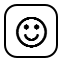
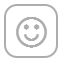
スマホ版のcalendar表示のほうも画像アイコンに変更

diff --git a/public/stylesheets/picob.css b/public/stylesheets/picob.css
@@ -12,10 +12,22 @@
 @media only screen and (max-width: 899px) {
   /* line 12, picob.scss */
   .piece, .empty-piece, .dummy-piece {
-    width: 30px;
-    height: 30px;
-    padding: 5px;
+    width: 34px;
+    height: 34px;
+    padding: 3px;
     margin: 2px 2px;
+  }
+  /* line 18, picob.scss */
+  .piece.good, .empty-piece.good, .dummy-piece.good {
+    background-color: #01BCB6;
+  }
+  /* line 21, picob.scss */
+  .piece.normal, .empty-piece.normal, .dummy-piece.normal {
+    background-color: #FFB273;
+  }
+  /* line 24, picob.scss */
+  .piece.bad, .empty-piece.bad, .dummy-piece.bad {
+    background-color: #FF7373;
   }
 }
 @media only screen and (min-width: 900px) {
@@ -28,68 +40,88 @@
   }
 }
 
-/* line 30, picob.scss */
+/* line 39, picob.scss */
 .feeling, .empty-feeling {
-  height: 64px;
-  width: 64px;
+  width: 100%;
+  position: relative;
   text-align: center;
 }
 @media only screen and (max-width: 899px) {
-  /* line 30, picob.scss */
+  /* line 39, picob.scss */
   .feeling, .empty-feeling {
-    font-size: 14px;
-    position: relative;
-    top: -2px;
+    height: 100%;
+    top: 4px;
+  }
+  /* line 46, picob.scss */
+  .feeling.good, .empty-feeling.good {
+    background: url(/images/good_32.png) no-repeat center;
+  }
+  /* line 49, picob.scss */
+  .feeling.normal, .empty-feeling.normal {
+    background: url(/images/normal_32.png) no-repeat center;
+  }
+  /* line 52, picob.scss */
+  .feeling.bad, .empty-feeling.bad {
+    background: url(/images/bad_32.png) no-repeat center;
+  }
+  /* line 55, picob.scss */
+  .feeling.none, .empty-feeling.none {
+    background: url(/images/none_32.png) no-repeat center;
   }
 }
 @media only screen and (min-width: 900px) {
-  /* line 30, picob.scss */
+  /* line 39, picob.scss */
   .feeling, .empty-feeling {
-    font-size: 40px;
+    height: 64px;
+    top: 17px;
+  }
+  /* line 62, picob.scss */
+  .feeling.good, .empty-feeling.good {
+    background: url(/images/good_64.png) no-repeat center;
+  }
+  /* line 65, picob.scss */
+  .feeling.normal, .empty-feeling.normal {
+    background: url(/images/normal_64.png) no-repeat center;
+  }
+  /* line 68, picob.scss */
+  .feeling.bad, .empty-feeling.bad {
+    background: url(/images/bad_64.png) no-repeat center;
+  }
+  /* line 71, picob.scss */
+  .feeling.none, .empty-feeling.none {
+    background: url(/images/none_64.png) no-repeat center;
   }
 }
-/* line 42, picob.scss */
-.feeling.good, .empty-feeling.good {
-  background: url(/images/good_64.png) no-repeat center;
-}
-/* line 45, picob.scss */
-.feeling.normal, .empty-feeling.normal {
-  background: url(/images/normal_64.png) no-repeat center;
-}
-/* line 48, picob.scss */
-.feeling.bad, .empty-feeling.bad {
-  background: url(/images/bad_64.png) no-repeat center;
-}
-/* line 51, picob.scss */
-.feeling.none, .empty-feeling.none {
-  background: url(/images/none_64.png) no-repeat center;
-}
 
-/* line 56, picob.scss */
+/* line 77, picob.scss */
 .date {
+  width: 100%;
+  float: left;
+  position: relative;
+  top: 0px;
   text-align: right;
 }
 @media only screen and (max-width: 899px) {
-  /* line 56, picob.scss */
+  /* line 77, picob.scss */
   .date {
-    font-size: 12px;
+    font-size: 10px;
   }
 }
 @media only screen and (min-width: 900px) {
-  /* line 56, picob.scss */
+  /* line 77, picob.scss */
   .date {
-    font-size: 28px;
+    font-size: 20px;
     margin-bottom: 2px;
   }
 }
 
-/* line 67, picob.scss */
+/* line 92, picob.scss */
 .feeling-selector {
   font-size: 20px;
   margin: 10px 0px;
   overflow: hidden;
 }
-/* line 71, picob.scss */
+/* line 96, picob.scss */
 .feeling-selector .feeling-choices {
   display: block;
   float: left;
@@ -102,29 +134,30 @@
   font-size: 15px;
 }
 
-/* line 85, picob.scss */
+/* line 110, picob.scss */
 .feeling-text {
+  position: relative;
+  top: 18px;
   text-align: center;
 }
 @media only screen and (max-width: 899px) {
-  /* line 85, picob.scss */
+  /* line 110, picob.scss */
   .feeling-text {
     display: none;
   }
 }
 @media only screen and (min-width: 900px) {
-  /* line 85, picob.scss */
+  /* line 110, picob.scss */
   .feeling-text {
-    margin-top: 6px;
-    font-size: 16px;
+    font-size: 15px;
   }
 }
 
-/* line 96, picob.scss */
+/* line 122, picob.scss */
 #day {
   clear: both;
 }
-/* line 98, picob.scss */
+/* line 124, picob.scss */
 #day div {
   float: left;
   background-color: rgba(255, 255, 255, 0.5);
@@ -132,7 +165,7 @@
   text-align: center;
 }
 @media only screen and (max-width: 899px) {
-  /* line 98, picob.scss */
+  /* line 124, picob.scss */
   #day div {
     width: 30px;
     font-size: 11px;
@@ -141,7 +174,7 @@
   }
 }
 @media only screen and (min-width: 900px) {
-  /* line 98, picob.scss */
+  /* line 124, picob.scss */
   #day div {
     width: 100px;
     font-size: 15px;
@@ -149,56 +182,56 @@
     margin: 3px 3px;
   }
 }
-/* line 115, picob.scss */
+/* line 141, picob.scss */
 #day div.holiday {
   color: #BF4245;
 }
 
-/* line 122, picob.scss */
+/* line 148, picob.scss */
 #controler div {
   float: left;
 }
-/* line 125, picob.scss */
+/* line 151, picob.scss */
 #controler #month-controler {
   margin: 3px 3px;
   background-color: #FFFFFF;
   font-size: 18px;
 }
-/* line 129, picob.scss */
+/* line 155, picob.scss */
 #controler #month-controler a {
   display: block;
   float: left;
 }
-/* line 133, picob.scss */
+/* line 159, picob.scss */
 #controler #month-controler #next-month, #controler #month-controler #prev-month {
   padding: 7px 8px;
   margin: 3px 0px;
 }
-/* line 137, picob.scss */
+/* line 163, picob.scss */
 #controler #month-controler #current-ym {
   margin: 3px 3px;
 }
 
-/* line 143, picob.scss */
+/* line 169, picob.scss */
 #form-window {
   display: none;
   padding: 20px 30px;
   background-color: #D1D1D1;
 }
-/* line 149, picob.scss */
+/* line 175, picob.scss */
 #form-window #feeling-text-container {
   margin: 5px 10px 20px 10px;
   font-size: 16px;
 }
-/* line 152, picob.scss */
+/* line 178, picob.scss */
 #form-window #feeling-text-container .feeling-group-title {
   font-size: 20px;
 }
-/* line 156, picob.scss */
+/* line 182, picob.scss */
 #form-window #feeling-text-container .feeling-text-choices.active {
   background-color: #2968D2;
 }
-/* line 159, picob.scss */
+/* line 185, picob.scss */
 #form-window #feeling-text-container .feeling-text-choices.inactive {
   background-color: transparent;
 }

diff --git a/public/stylesheets/picob.scss b/public/stylesheets/picob.scss
@@ -11,10 +11,19 @@ $base_charctor_color: #000000;
 
 .piece, .empty-piece, .dummy-piece {
     @media #{$small} {
-        width: 30px;
-        height: 30px;
-        padding: 5px;
+        width: 34px;
+        height: 34px;
+        padding: 3px;
         margin: 2px 2px;
+        &.good {
+            background-color: #01BCB6;
+        }
+        &.normal {
+            background-color: #FFB273;
+        }
+        &.bad {
+            background-color: #FF7373;
+        }
     }
     @media #{$large} {
         width: 100px;
@@ -28,37 +37,53 @@ $base_charctor_color: #000000;
 }
 
 .feeling, .empty-feeling {
-    height: 64px;
-    width: 64px;
+    width: 100%;
+    position: relative;
     text-align: center;
     @media #{$small} {
-        font-size: 14px;
-        position: relative;
-        top: -2px;
+        height: 100%;
+        top: 4px;
+        &.good {
+            background: url(/images/good_32.png) no-repeat center;
+        }
+        &.normal {
+            background: url(/images/normal_32.png) no-repeat center;
+        }
+        &.bad {
+            background: url(/images/bad_32.png) no-repeat center;
+        }
+        &.none {
+            background: url(/images/none_32.png) no-repeat center;
+        }
     }
     @media #{$large} {
-        font-size: 40px;
-    }
-    &.good {
-        background: url(/images/good_64.png) no-repeat center;
-    }
-    &.normal {
-        background: url(/images/normal_64.png) no-repeat center;
-    }
-    &.bad {
-        background: url(/images/bad_64.png) no-repeat center;
-    }
-    &.none {
-        background: url(/images/none_64.png) no-repeat center;
+        height: 64px;
+        top: 17px;
+        &.good {
+            background: url(/images/good_64.png) no-repeat center;
+        }
+        &.normal {
+            background: url(/images/normal_64.png) no-repeat center;
+        }
+        &.bad {
+            background: url(/images/bad_64.png) no-repeat center;
+        }
+        &.none {
+            background: url(/images/none_64.png) no-repeat center;
+        }
     }
 }
 
 .date {
+    width: 100%;
+    float: left;
+    position: relative;
+    top: 0px;
     @media #{$small} {
-        font-size: 12px;
+        font-size: 10px;
     }
     @media #{$large} {
-        font-size: 28px;
+        font-size: 20px;
         margin-bottom: 2px;
     }
     text-align: right;
@@ -83,13 +108,14 @@ $base_charctor_color: #000000;
 
 
 .feeling-text {
+    position: relative;
+    top: 18px;
     text-align: center;
     @media #{$small} {
         display: none;
     }
     @media #{$large} {
-        margin-top: 6px;
-        font-size: 16px;
+        font-size: 15px;
     }
 }
 

diff --git a/public/javascripts/picob.js b/public/javascripts/picob.js
@@ -36,7 +36,7 @@ $(function() {
       return data.feeling_text !== null && typeof data.feeling_text !== "undefined";
     }, this);
     this.getPieceCss = ko.computed(function() {
-      return this.isDummy() ? 'dummy-piece' : this.isDummy() ? 'empty-piece link' : 'piece link';
+      return this.isDummy() ? 'dummy-piece' : (this.isDummy() ? 'empty-piece link ' : 'piece link ') + data.feeling;
     }, this);
     this.getHref = ko.computed(function() {
       return this.isDummy() ? '' : '/' + locationStatus.userSeq + '/entry/' + locationStatus.year + '/' + locationStatus.month + '/' + this.day();
